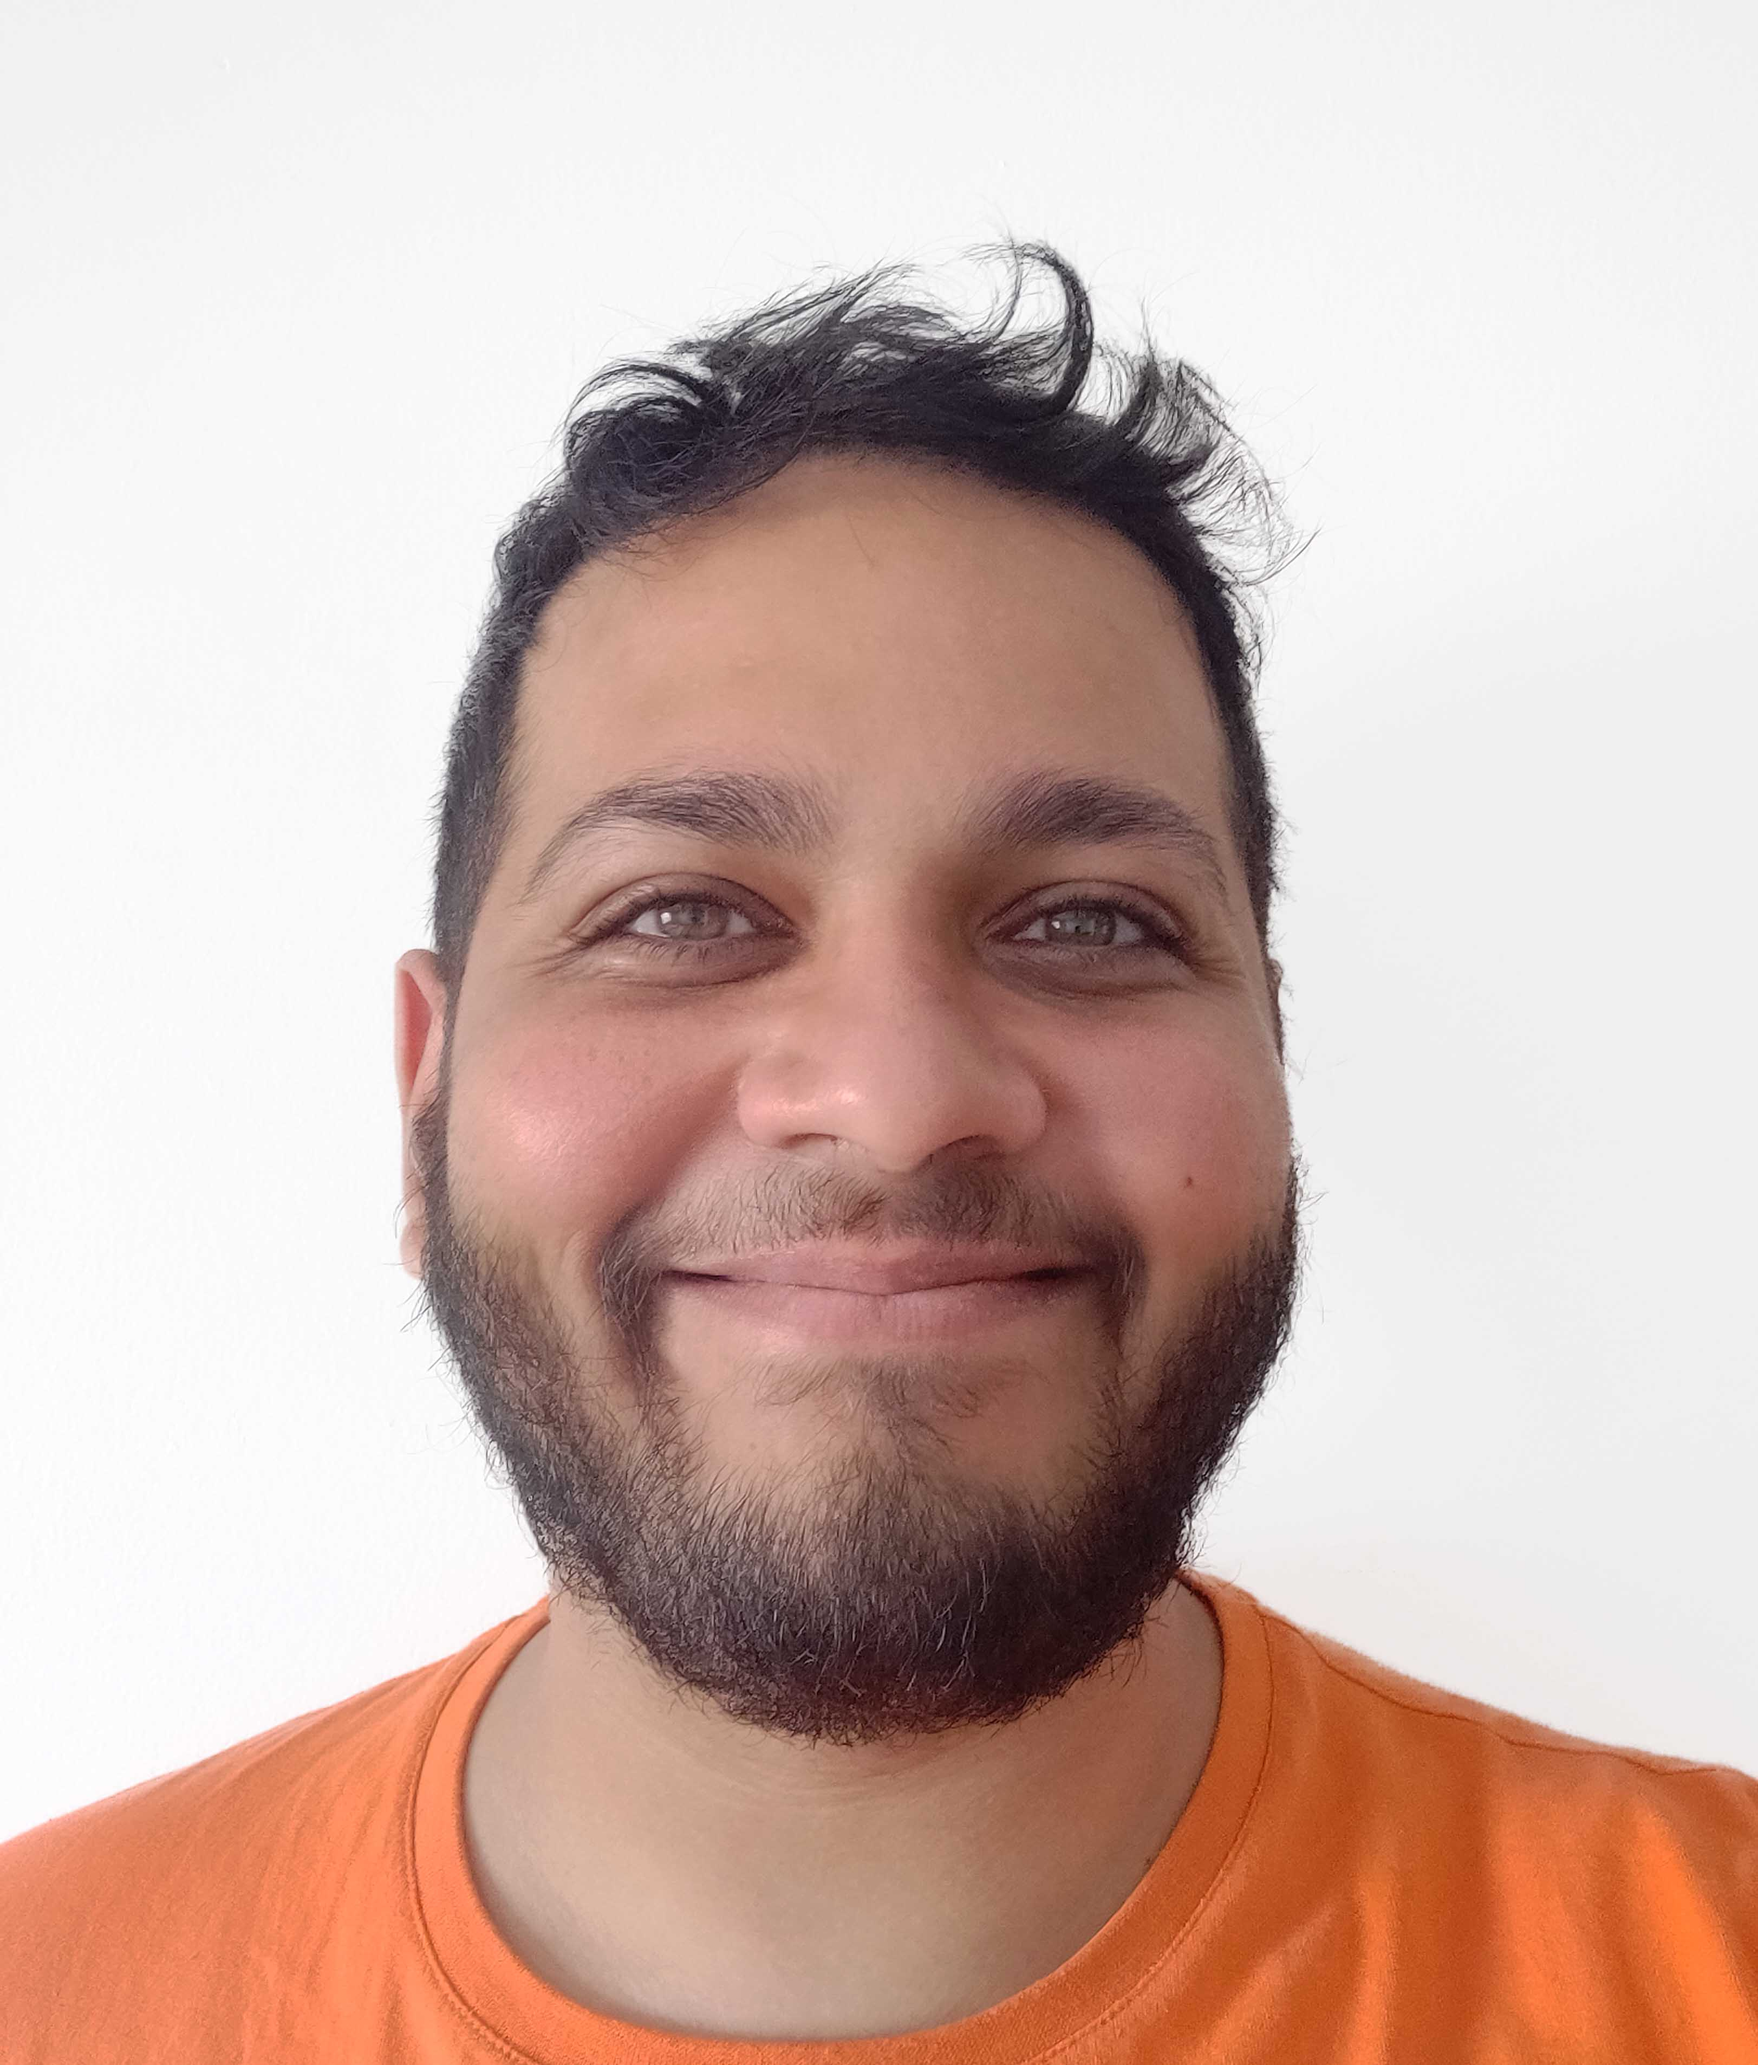
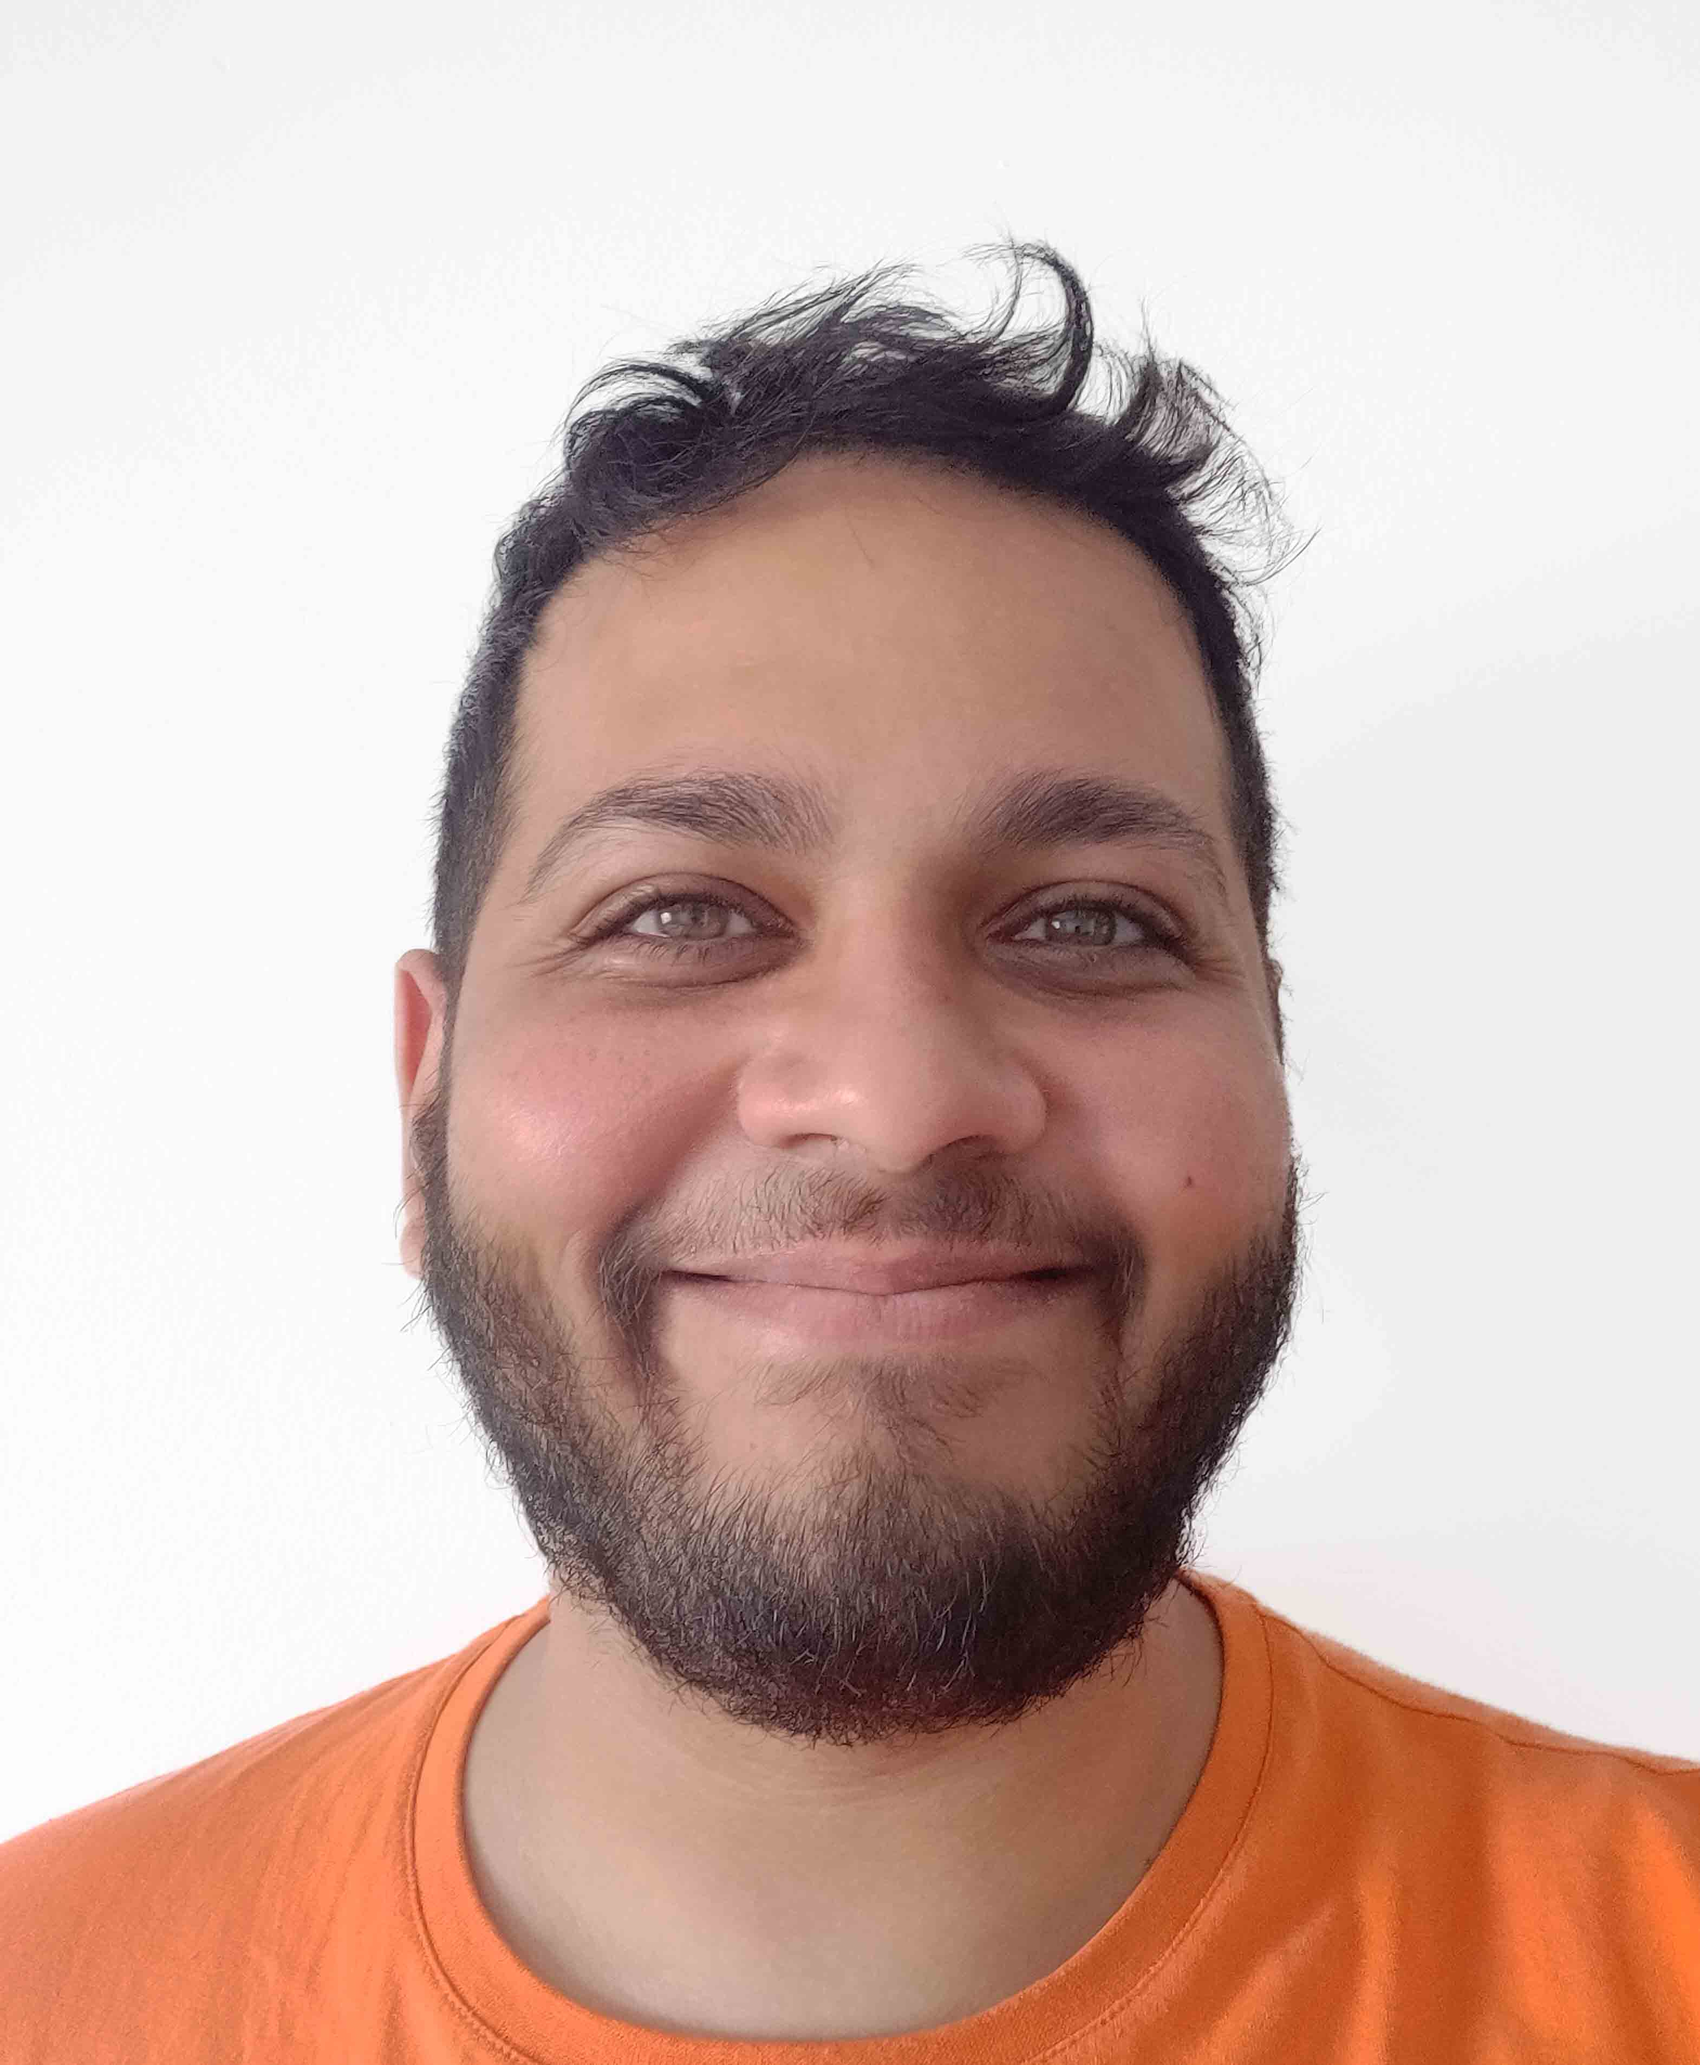
Improved Centering of Image

Changed region(s): [[0.1561, 0.0937, 1.0, 1.0], [0.4683, 0.9992, 0.4995, 1.0], [0.0937, 0.8431, 0.1249, 0.8743]]

diff --git a/post/ride-pooling/index.html b/post/ride-pooling/index.html
@@ -605,7 +605,7 @@
   <div class="media author-card content-widget-hr">
     
       
-      <img class="portrait mr-3" src="/authors/sanketkshah/avatar_hud41c43479b6af761e307c8302c0ac2e5_465660_250x250_fill_q90_lanczos_center.jpg" alt="Avatar">
+      <img class="portrait mr-3" src="/authors/sanketkshah/avatar_hua072dd0497836547870054524e960e02_259503_250x250_fill_q90_lanczos_center.jpg" alt="Avatar">
     
 
     <div class="media-body">

diff --git a/authors/sanketkshah/index.html b/authors/sanketkshah/index.html
@@ -406,7 +406,7 @@
 
       
       
-      <img class="portrait" src="/authors/sanketkshah/avatar_hud41c43479b6af761e307c8302c0ac2e5_465660_250x250_fill_q90_lanczos_center.jpg" alt="Avatar">
+      <img class="portrait" src="/authors/sanketkshah/avatar_hua072dd0497836547870054524e960e02_259503_250x250_fill_q90_lanczos_center.jpg" alt="Avatar">
       
 
       <div class="portrait-title">

diff --git a/index.html b/index.html
@@ -459,7 +459,7 @@
 
       
       
-      <img class="portrait" src="/authors/sanketkshah/avatar_hud41c43479b6af761e307c8302c0ac2e5_465660_250x250_fill_q90_lanczos_center.jpg" alt="Avatar">
+      <img class="portrait" src="/authors/sanketkshah/avatar_hua072dd0497836547870054524e960e02_259503_250x250_fill_q90_lanczos_center.jpg" alt="Avatar">
       
 
       <div class="portrait-title">
